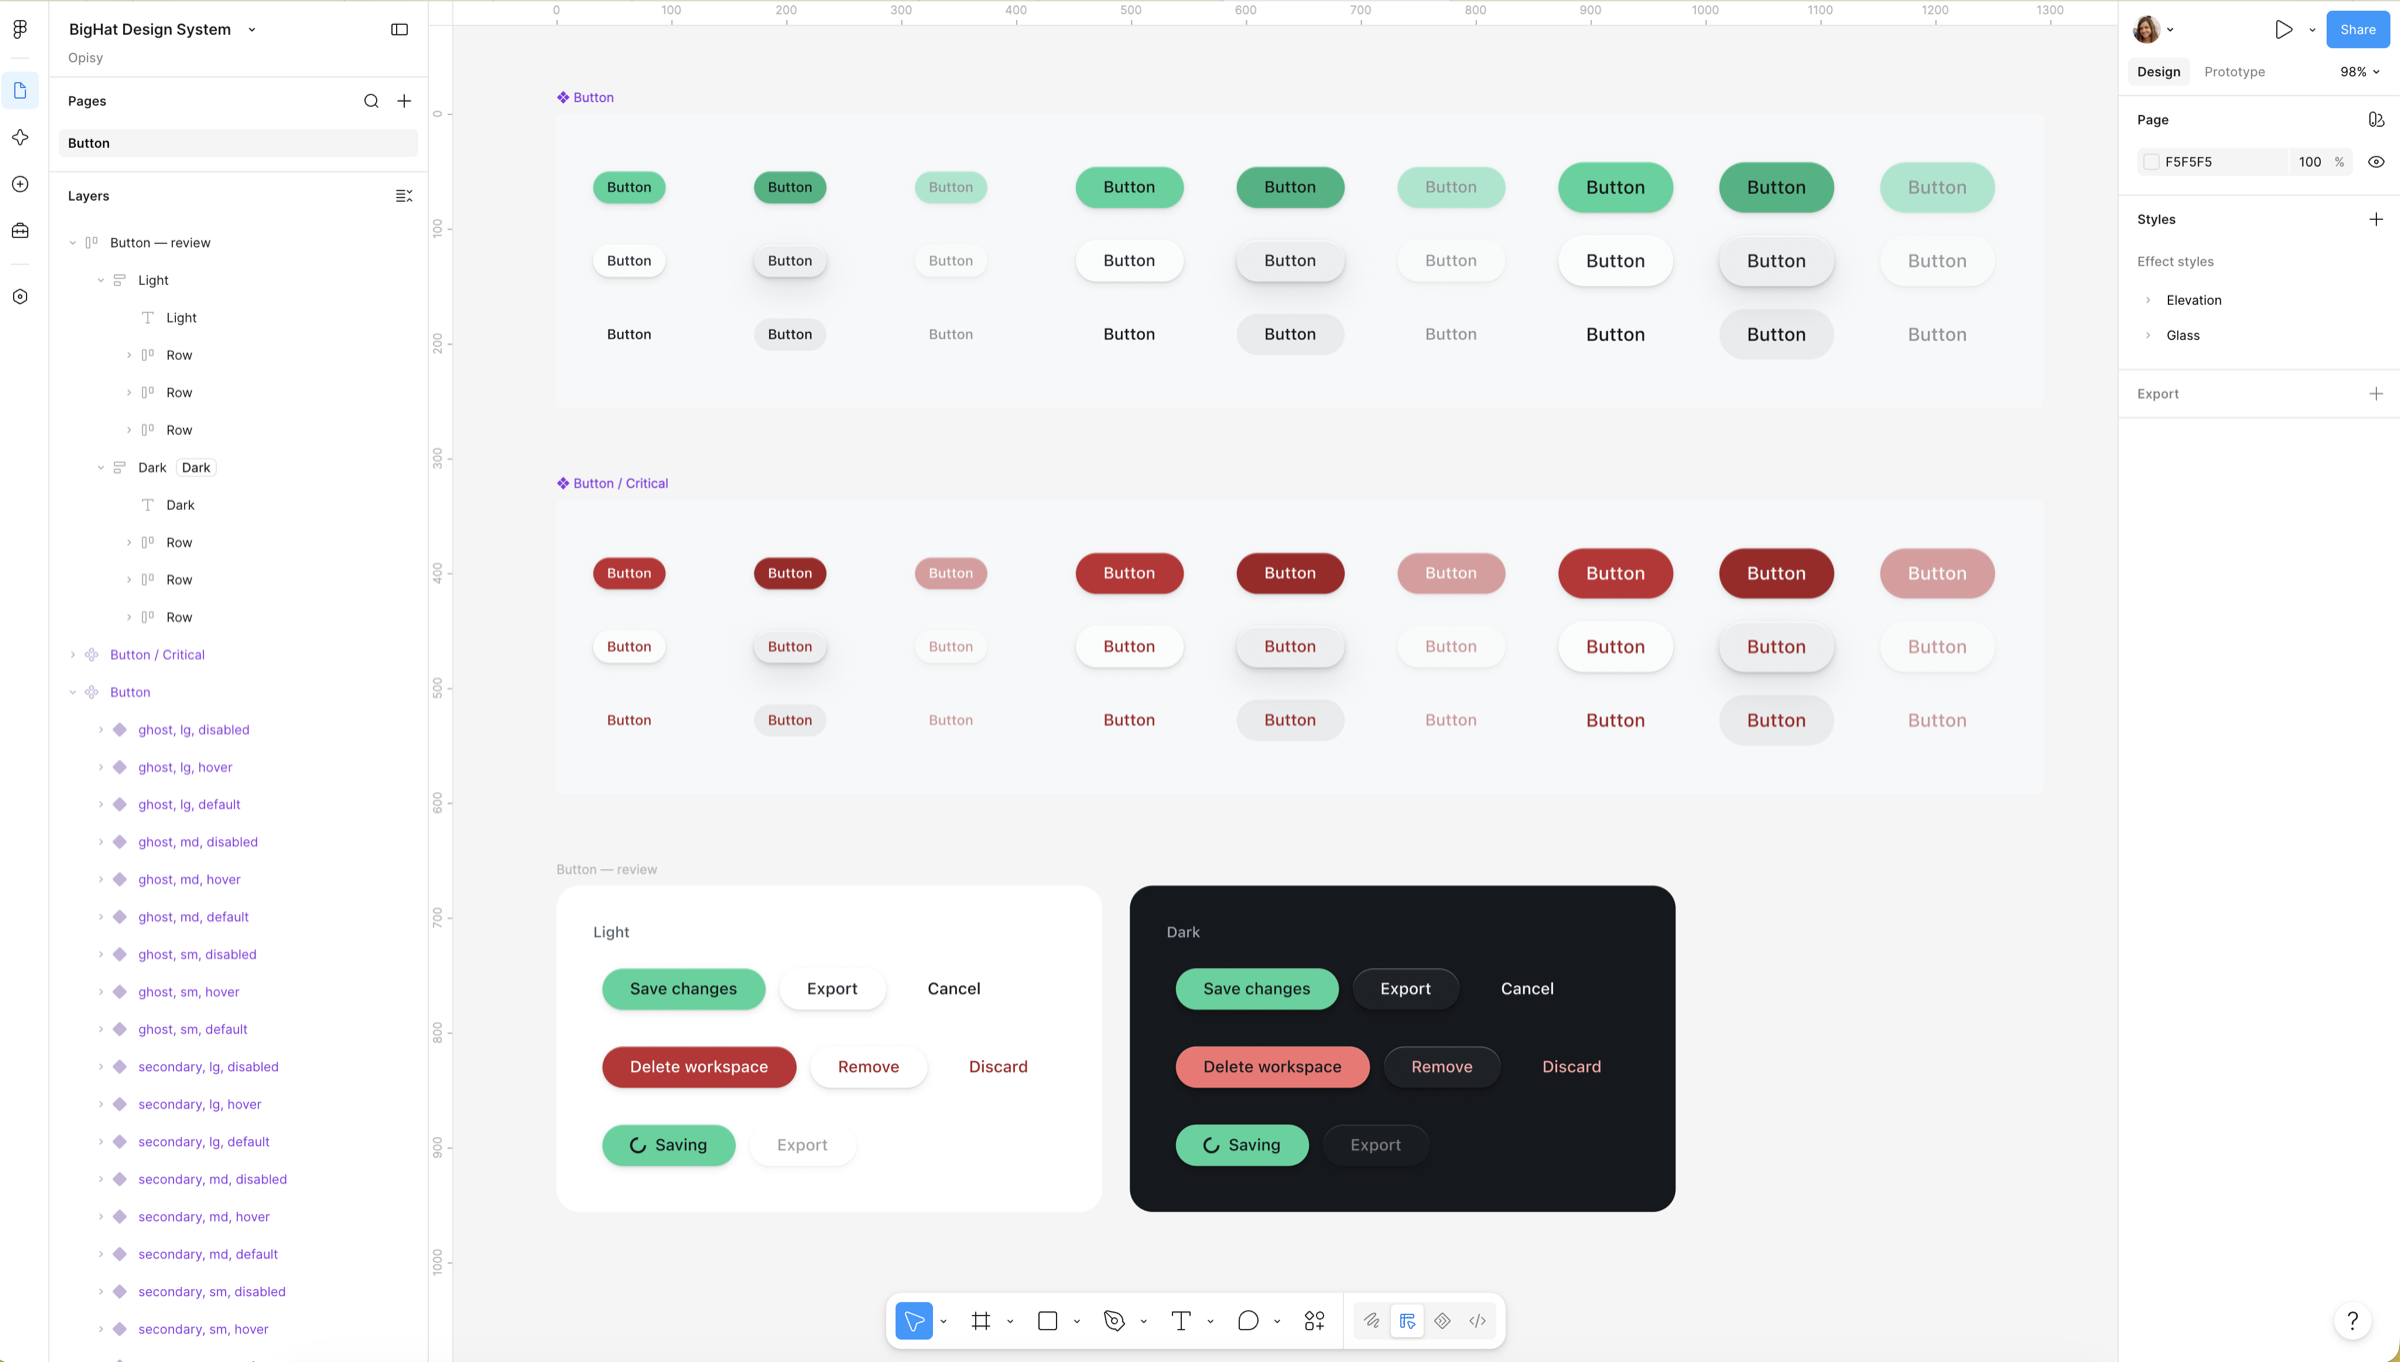
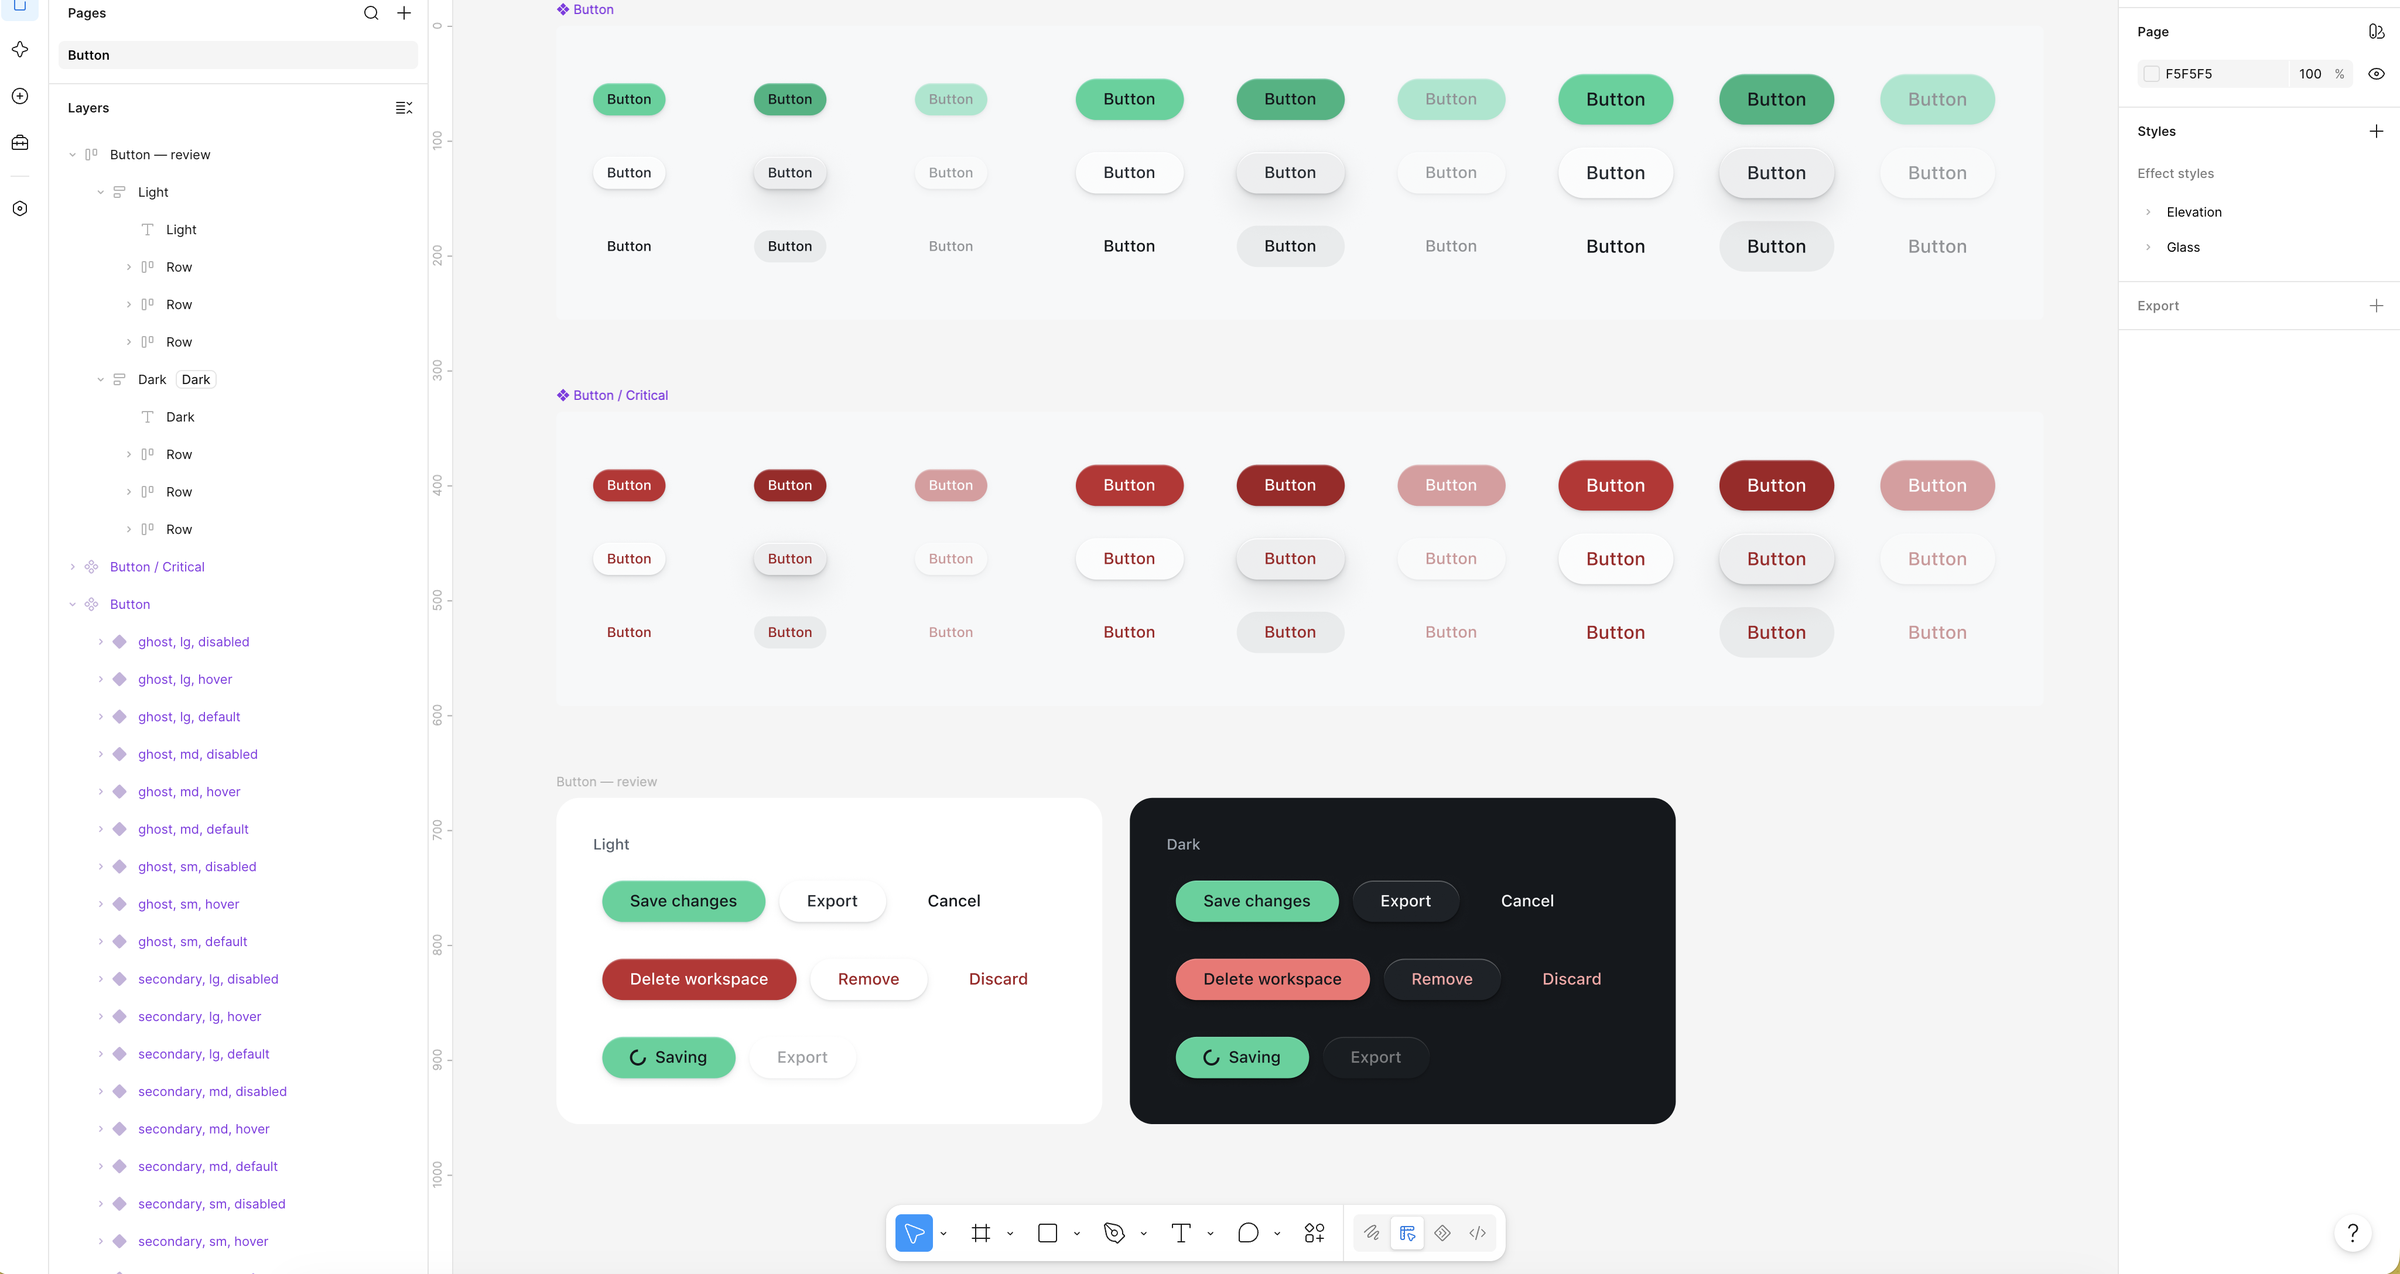
Code Connect templates for the new Figma components; README lists them
Badge, Input, Checkbox, FilterChip, RemovableChip, Select and Menu (trigger
and item). The README screenshot is cropped below the workspace header.

diff --git a/figma/Input.figma.ts b/figma/Input.figma.ts
@@ -1,0 +1,41 @@
+// url=https://www.figma.com/design/xIbIzmUNRZ3gyONsVn9jle/BigHat-Design-System?node-id=12-143
+// source=src/components/Input/Input.tsx
+// component=Input
+import figma from 'figma';
+const instance = figma.selectedInstance;
+
+const label = instance.getString('Label');
+const placeholder = instance.getString('Value');
+const description = instance.getBoolean('Show description')
+  ? instance.getString('Description')
+  : '';
+const required = instance.getBoolean('Required', { true: ' required', false: '' });
+// hover and focus are pointer and keyboard states, not props.
+const state = instance.getEnum('state', {
+  default: 'default',
+  hover: 'default',
+  focus: 'default',
+  invalid: 'invalid',
+  disabled: 'disabled',
+});
+const error = state === 'invalid' ? instance.getString('Error') : '';
+
+export default {
+  example: figma.code`<Input
+  label="${label}"
+  placeholder="${placeholder}"${
+    description
+      ? figma.code`
+  description="${description}"`
+      : ''
+  }${
+    error
+      ? figma.code`
+  error="${error}"`
+      : ''
+  }${required}${state === 'disabled' ? ' disabled' : ''}
+/>`,
+  imports: ['import { Input } from "@bighat/ui"'],
+  id: 'input',
+  metadata: { nestable: true },
+};

diff --git a/figma/Checkbox.figma.ts b/figma/Checkbox.figma.ts
@@ -1,0 +1,41 @@
+// url=https://www.figma.com/design/xIbIzmUNRZ3gyONsVn9jle/BigHat-Design-System?node-id=20-126
+// source=src/components/Checkbox/Checkbox.tsx
+// component=Checkbox
+import figma from 'figma';
+const instance = figma.selectedInstance;
+
+const label = instance.getString('Label');
+const description = instance.getBoolean('Show hint') ? instance.getString('Hint') : '';
+const checked = instance.getEnum('checked', {
+  off: '',
+  on: ' defaultChecked',
+  mixed: ' indeterminate',
+});
+// hover and focus are pointer and keyboard states, not props.
+const state = instance.getEnum('state', {
+  default: 'default',
+  hover: 'default',
+  focus: 'default',
+  invalid: 'invalid',
+  disabled: 'disabled',
+});
+const error = state === 'invalid' ? instance.getString('Error') : '';
+
+export default {
+  example: figma.code`<Checkbox
+  label="${label}"${
+    description
+      ? figma.code`
+  description="${description}"`
+      : ''
+  }${
+    error
+      ? figma.code`
+  error="${error}"`
+      : ''
+  }${checked}${state === 'disabled' ? ' disabled' : ''}
+/>`,
+  imports: ['import { Checkbox } from "@bighat/ui"'],
+  id: 'checkbox',
+  metadata: { nestable: true },
+};

diff --git a/figma/Select.figma.ts b/figma/Select.figma.ts
@@ -1,0 +1,34 @@
+// url=https://www.figma.com/design/xIbIzmUNRZ3gyONsVn9jle/BigHat-Design-System?node-id=21-122
+// source=src/components/Select/Select.tsx
+// component=Select
+import figma from 'figma';
+const instance = figma.selectedInstance;
+
+const label = instance.getString('Label');
+const placeholder = instance.getString('Value');
+// hover and focus are pointer and keyboard states, not props.
+const state = instance.getEnum('state', {
+  default: 'default',
+  hover: 'default',
+  focus: 'default',
+  invalid: 'invalid',
+  disabled: 'disabled',
+});
+const error = state === 'invalid' ? instance.getString('Error') : '';
+
+export default {
+  // The options are data, not drawn in Figma; the snippet leaves them to the product.
+  example: figma.code`<Select
+  label="${label}"
+  placeholder="${placeholder}"
+  options={options}${
+    error
+      ? figma.code`
+  error="${error}"`
+      : ''
+  }${state === 'disabled' ? ' disabled' : ''}
+/>`,
+  imports: ['import { Select } from "@bighat/ui"'],
+  id: 'select',
+  metadata: { nestable: true },
+};

diff --git a/figma/MenuItem.figma.ts b/figma/MenuItem.figma.ts
@@ -1,0 +1,23 @@
+// url=https://www.figma.com/design/xIbIzmUNRZ3gyONsVn9jle/BigHat-Design-System?node-id=22-21
+// source=src/components/Menu/Menu.tsx
+// component=MenuItem
+import figma from 'figma';
+const instance = figma.selectedInstance;
+
+// An item is data passed to <Menu items>, so the snippet is the item object.
+const label = instance.getString('Label');
+const shortcut = instance.getBoolean('Show shortcut') ? instance.getString('Shortcut') : '';
+const tone = instance.getEnum('tone', { neutral: '', critical: ", tone: 'critical'" });
+// active is the highlighted item, a runtime state, not a prop.
+const disabled = instance.getEnum('state', {
+  default: '',
+  active: '',
+  disabled: ', disabled: true',
+});
+
+export default {
+  example: figma.code`{ label: '${label}'${shortcut ? figma.code`, shortcut: '${shortcut}'` : ''}${tone}${disabled}, onSelect }`,
+  imports: ['import type { MenuItem } from "@bighat/ui"'],
+  id: 'menu-item',
+  metadata: { nestable: true },
+};

diff --git a/figma/Badge.figma.ts b/figma/Badge.figma.ts
@@ -1,0 +1,23 @@
+// url=https://www.figma.com/design/xIbIzmUNRZ3gyONsVn9jle/BigHat-Design-System?node-id=12-18
+// source=src/components/Badge/Badge.tsx
+// component=Badge
+import figma from 'figma';
+const instance = figma.selectedInstance;
+
+const label = instance.getString('Label');
+// neutral is the default in code, so it is left out of the snippet.
+const tone = instance.getEnum('tone', {
+  neutral: '',
+  info: ' tone="info"',
+  success: ' tone="success"',
+  warning: ' tone="warning"',
+  critical: ' tone="critical"',
+});
+const dot = instance.getBoolean('Dot', { true: ' dot', false: '' });
+
+export default {
+  example: figma.code`<Badge${tone}${dot}>${label}</Badge>`,
+  imports: ['import { Badge } from "@bighat/ui"'],
+  id: 'badge',
+  metadata: { nestable: true },
+};

diff --git a/figma/FilterChip.figma.ts b/figma/FilterChip.figma.ts
@@ -1,0 +1,17 @@
+// url=https://www.figma.com/design/xIbIzmUNRZ3gyONsVn9jle/BigHat-Design-System?node-id=21-24
+// source=src/components/FilterChip/FilterChip.tsx
+// component=FilterChip
+import figma from 'figma';
+const instance = figma.selectedInstance;
+
+const label = instance.getString('Label');
+const pressed = instance.getEnum('pressed', { true: '{true}', false: '{false}' });
+// hover is a pointer state, not a prop.
+const disabled = instance.getEnum('state', { default: '', hover: '', disabled: ' disabled' });
+
+export default {
+  example: figma.code`<FilterChip label="${label}" pressed=${pressed} onClick={toggle}${disabled} />`,
+  imports: ['import { FilterChip } from "@bighat/ui"'],
+  id: 'filter-chip',
+  metadata: { nestable: true },
+};

diff --git a/figma/RemovableChip.figma.ts b/figma/RemovableChip.figma.ts
@@ -1,0 +1,20 @@
+// url=https://www.figma.com/design/xIbIzmUNRZ3gyONsVn9jle/BigHat-Design-System?node-id=21-33
+// source=src/components/RemovableChip/RemovableChip.tsx
+// component=RemovableChip
+import figma from 'figma';
+const instance = figma.selectedInstance;
+
+const label = instance.getString('Label');
+const disabled = instance.getEnum('state', { default: '', disabled: ' disabled' });
+
+export default {
+  // removeLabel names the kind of thing: "Remove filter Contract", not "Remove".
+  example: figma.code`<RemovableChip
+  label="${label}"
+  removeLabel="Remove filter ${label}"
+  onRemove={remove}${disabled}
+/>`,
+  imports: ['import { RemovableChip } from "@bighat/ui"'],
+  id: 'removable-chip',
+  metadata: { nestable: true },
+};

diff --git a/figma/MenuTrigger.figma.ts b/figma/MenuTrigger.figma.ts
@@ -1,0 +1,16 @@
+// url=https://www.figma.com/design/xIbIzmUNRZ3gyONsVn9jle/BigHat-Design-System?node-id=22-34
+// source=src/components/Menu/Menu.tsx
+// component=Menu
+import figma from 'figma';
+const instance = figma.selectedInstance;
+
+// The trigger is the Menu component: its label is the button's text, and the
+// items come from the Menu / List next to it.
+const label = instance.getString('Label');
+
+export default {
+  example: figma.code`<Menu label="${label}" items={items} />`,
+  imports: ['import { Menu } from "@bighat/ui"'],
+  id: 'menu',
+  metadata: { nestable: true },
+};

diff --git a/figma/README.md b/figma/README.md
@@ -8,10 +8,23 @@ Figma properties to the component's real props and leaves out the defaults, so
 a primary, medium button reads `<Button>Save</Button>`. `hover` is a pointer
 state, not a prop, and maps to nothing.
 
-| template | Figma component set | code |
-| --- | --- | --- |
-| `Button.figma.ts` | Button | `src/components/Button/Button.tsx` |
-| `ButtonCritical.figma.ts` | Button / Critical | the same, with `tone="critical"` |
+| template                  | Figma component set | code                                                |
+| ------------------------- | ------------------- | --------------------------------------------------- |
+| `Button.figma.ts`         | Button              | `src/components/Button/Button.tsx`                  |
+| `ButtonCritical.figma.ts` | Button / Critical   | the same, with `tone="critical"`                    |
+| `Badge.figma.ts`          | Badge               | `src/components/Badge/Badge.tsx`                    |
+| `Input.figma.ts`          | Input               | `src/components/Input/Input.tsx`                    |
+| `Checkbox.figma.ts`       | Checkbox            | `src/components/Checkbox/Checkbox.tsx`              |
+| `FilterChip.figma.ts`     | FilterChip          | `src/components/FilterChip/FilterChip.tsx`          |
+| `RemovableChip.figma.ts`  | RemovableChip       | `src/components/RemovableChip/RemovableChip.tsx`    |
+| `Select.figma.ts`         | Select              | `src/components/Select/Select.tsx`                  |
+| `MenuTrigger.figma.ts`    | Menu / Trigger      | `src/components/Menu/Menu.tsx`, the `<Menu>` itself |
+| `MenuItem.figma.ts`       | Menu / Item         | one entry of `<Menu items>`, as the object you pass |
+
+Pointer and keyboard states drawn in Figma — `hover`, `focus`, a menu's
+`active` item — map to nothing: they are the browser's, not props. Data that
+Figma does not hold, a Select's options or a Menu's items, is left to the
+product as `options` and `items`.
 
 The templates are outside `src/` on purpose: they import the `figma` runtime
 that only exists inside Figma, so they are not part of the package, the type

diff --git a/README.md b/README.md
@@ -20,17 +20,21 @@ built from the same component contracts.
 ## In Figma
 
 The tokens are also a Figma library, built from `tokens/*.tokens.json` rather
-than redrawn: 224 variables in four collections — Primitives, Color (Light and
+than redrawn: 227 variables in four collections — Primitives, Color (Light and
 Dark), Size and Type. Every semantic variable carries its CSS name as code
 syntax, so Dev Mode shows `var(--bh-action-primary-bg)`, not a hex, and the
-primitives are hidden from every picker, as they are from product code. Button
-is the first component in it: both tones, every size, the default, hover and
-disabled states and a Loading toggle, bound to those variables, with a review
-frame that switches the same instances to Dark by changing one mode.
+primitives are hidden from every picker, as they are from product code. A
+Foundations page shows the primitives and the colour roles in both modes.
 
-Code stays the source of truth and the library follows it. Pressed and focus are
-not drawn yet. Two things do not survive the trip: Figma cannot saturate a
-backdrop, so the glass secondary button is a little flatter there than in a
+Components so far: Button (both tones), Badge, Input, Select, Checkbox,
+FilterChip, RemovableChip and Menu, every value bound to those variables,
+variant properties named after the props, and each with a review frame that
+switches the same instances to Dark by changing one mode. Code Connect templates
+in [`figma/`](figma/) make Dev Mode show the component a developer would write.
+
+Code stays the source of truth and the library follows it. Pressed states are
+not drawn; the browser draws them. Two things do not survive the trip: Figma
+cannot saturate a backdrop, so glass is a little flatter there than in a
 browser, and the dark floating shadow keeps its light-theme geometry.
 
 ![The Big Hat library in Figma: Button and Button / Critical in every size and state drawn there, and the same instances in Light and Dark](docs/assets/figma-library.png)
